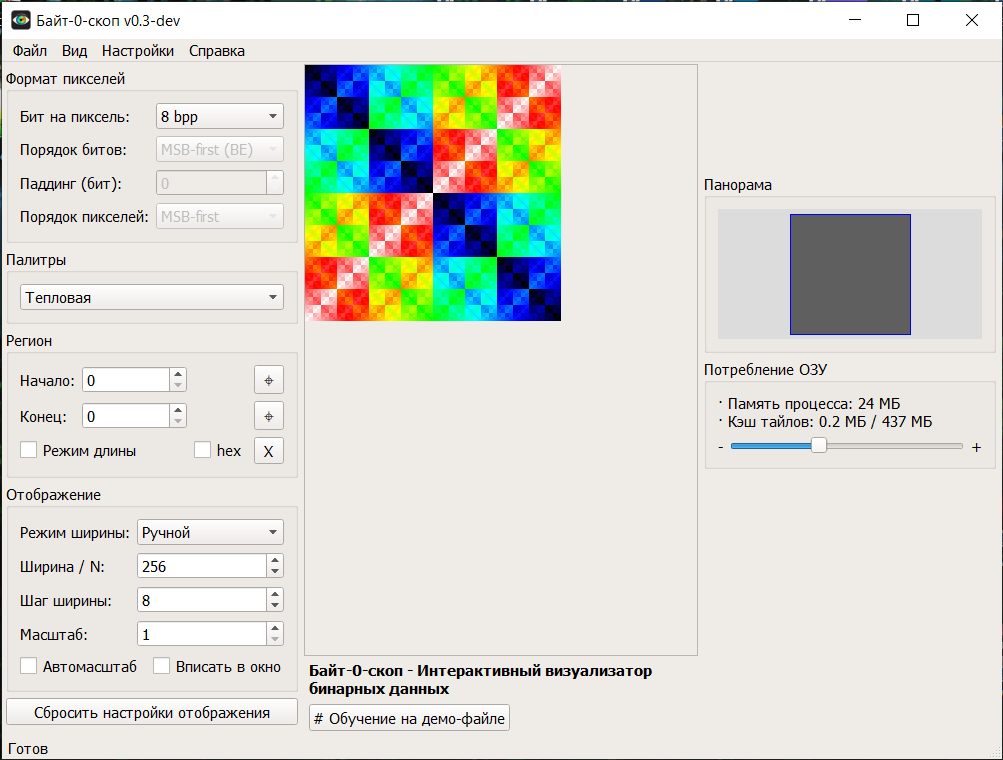
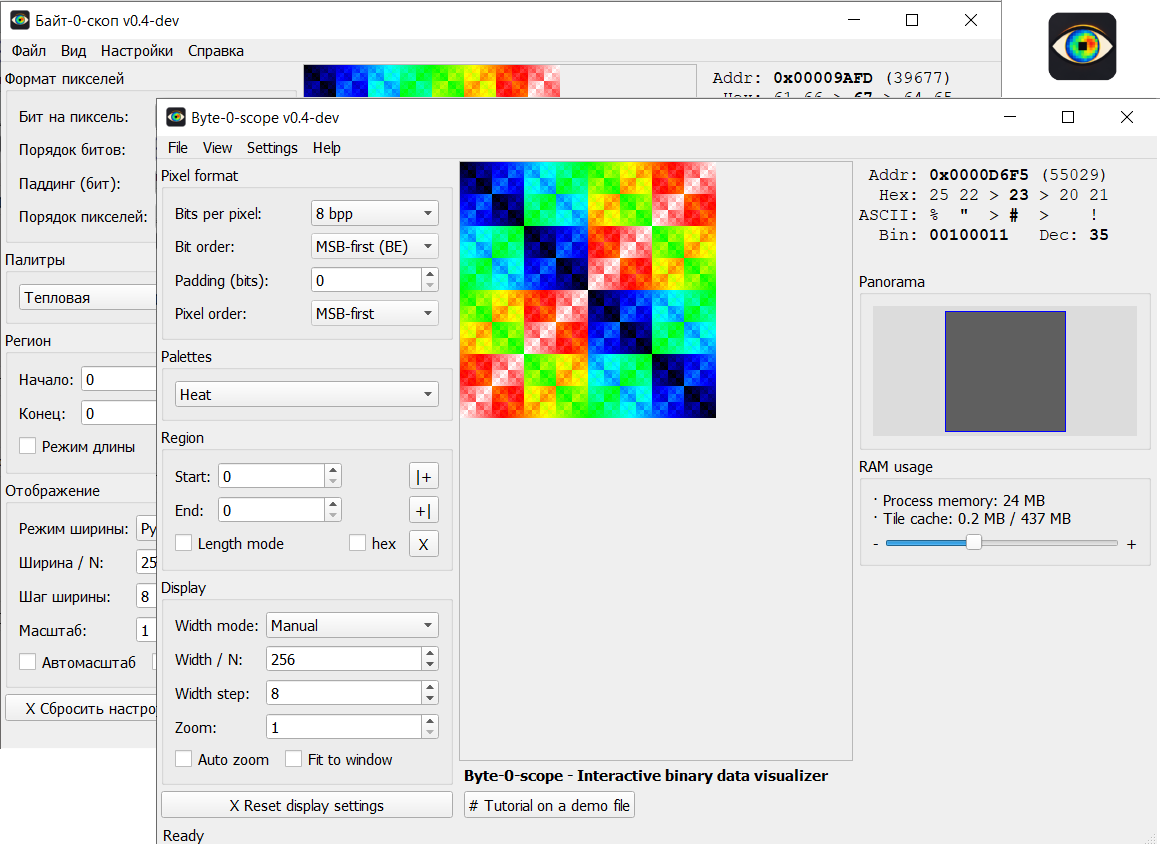
update readme

diff --git a/README.md b/README.md
@@ -9,6 +9,10 @@
 
 Разработка: часть кода подготовлена с помощью ИИ-ассистента (DeepSeek).
 
+GitHub: https://github.com/pav1388/byte-0-scope
+
+Форум: https://www.emu-land.net/forum/index.php/topic,93496.0.html
+
 ## Скриншоты
 
 <p align="center">
@@ -34,7 +38,7 @@
 - Тёмная и светлая темы
 - Список недавних файлов, drag & drop, открытие из командной строки
 - Режим «Обучение»: встроенный demo-файл со скрытой структурой, которую нужно восстановить подбором настроек
-- Локализация интерфейса: русский
+- Локализация интерфейса: русский, английский
 
 ### Drag & Drop
 
